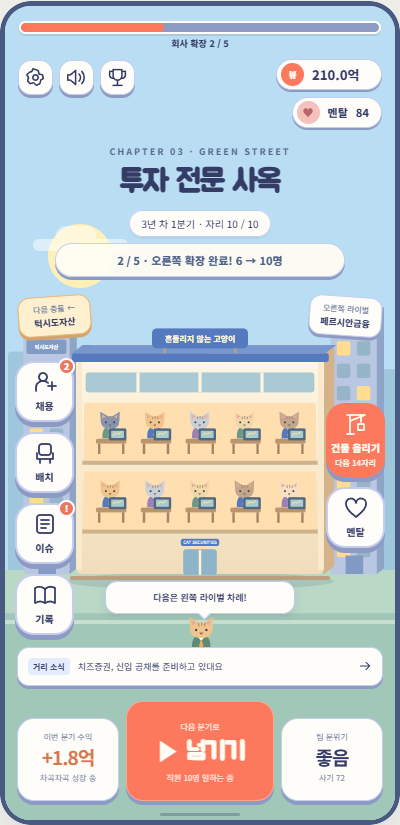
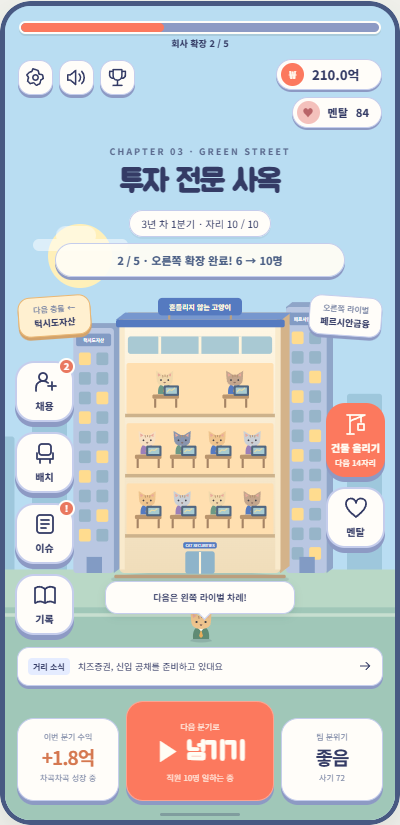
디자인: 확장 폭을 줄이고 5층 타워 비율로 조정

Changed region(s): [[0.0, 0.3636, 0.99, 0.7879], [0.0, 0.7273, 0.06, 0.7576], [0.09, 0.6061, 0.12, 0.6364]]

diff --git a/docs/mockups/2026-11-08-toy-city-five-expansions/index.html b/docs/mockups/2026-11-08-toy-city-five-expansions/index.html
@@ -77,17 +77,17 @@ const stages=[
  {name:'투자 전문 사옥',staff:10,price:210,scale:.72,cx:150,add:'동쪽 부지 · 투자팀',rival:'턱시도자산'},
  {name:'중형 증권 사옥',staff:14,price:500,scale:.60,cx:230,add:'서쪽 부지 · 3층 사옥',rival:'페르시안금융'},
  {name:'그린 스트리트 본사',staff:18,price:1200,scale:.56,cx:230,add:'동쪽 부지 · 전략팀',rival:'골든캣홀딩스'},
- {name:'고양이 금융 본사',staff:22,price:3000,scale:.50,cx:195,add:'서쪽 부지 · 4층 본사',rival:'거리 정복 완료'}
+ {name:'고양이 금융 타워',staff:22,price:3000,scale:.50,cx:195,add:'서쪽 부지 · 5층 타워',rival:'거리 정복 완료'}
 ];
 const names=['모카','구름','치즈','호두','라떼','후추','두부','밤이','나비','콩이','루나','보리','쿠키','토리','레오','솜이','밀크','버터','망고','오레오','로이','별이'];
 const colors=['#efc48d','#cbd0d6','#f1d8ab','#c4a68d','#f7e0c3','#8894ad'];
 const geometry=[
  {x:105,w:170,rows:1,scale:1},
- {x:35,w:240,rows:2,scale:.91},
- {x:35,w:310,rows:2,scale:.80},
- {x:-35,w:380,rows:3,scale:.68},
- {x:-35,w:450,rows:3,scale:.59},
- {x:-105,w:520,rows:4,scale:.51}
+ {x:75,w:200,rows:2,scale:.86},
+ {x:75,w:230,rows:3,scale:.70},
+ {x:45,w:260,rows:3,scale:.68},
+ {x:45,w:290,rows:4,scale:.56},
+ {x:15,w:320,rows:5,scale:.49}
 ].map(g=>({...g,h:g.rows*86+104}));
 const rivals=['치즈증권','삼색캐피탈','턱시도자산','페르시안금융','골든캣홀딩스','노르웨이펀드','러시안블루증권'];
 const direction=n=>n%2===1?'left':'right';
@@ -109,7 +109,7 @@ function opponents(n){const g=geometry[n];q('.opponents').innerHTML=opponent(riv
 function reset(){epoch++;autoRun++;timers.forEach(clearTimeout);timers=[];cancelAnimationFrame(frame);level=0;staff=4;seats=4;money=21.3;quarter=0;busy=false;auto=false;q('.phone').classList.remove('cinematic','celebrating');q('.company').classList.remove('company-hit');q('.dust').classList.remove('puff');q('.claimed-lot').setAttribute('opacity','0');all('.station').forEach(node=>{node.style.opacity='0';node.querySelector('.employee').classList.remove('arrived');node.querySelector('.workdesk').classList.remove('placed');});drawEnvelope(geometry[0]);placeStaff(0,4);opponents(0);q('.phase-label').textContent='왼쪽부터 · 좌우로 번갈아 확장해요';q('.speech').textContent='하나의 사옥으로 차곡차곡 성장';close();view(0);update();}
 function expand(){if(busy||level===5)return;busy=true;const next=level+1,s=stages[next],before=staff,side=direction(next),sign=side==='left'?-1:1,old=geometry[level],target=geometry[next];q('.phone').dataset.direction=side;q('.phone').classList.remove('celebrating');q('.company').classList.remove('company-hit');void q('.phone').offsetWidth;q('.phone').classList.add('cinematic');q('.company').style.setProperty('--hit',sign*22+'px');q('.company').classList.add('company-hit');q('.phase-label').textContent=`${next} / 5 · ${sideName(side)} ${stages[level].rival} 밀어내기!`;view(level,-sign*12);update();
  later(260,()=>{q(`.opponent[data-side="${side}"]`).classList.add('evicted');const dust=q('.dust');dust.setAttribute('transform',`translate(${side==='left'?old.x:old.x+old.w},0)`);dust.classList.add('puff');});
- later(420,()=>{view(next);q('.phase-label').textContent=`${sideName(side)} 부지 확보 · 건물의 기초를 넓혀요`;const lot=q('.claimed-lot');lot.setAttribute('x',side==='left'?target.x:old.x+old.w);lot.setAttribute('width','70');lot.setAttribute('opacity','1');});
+ later(420,()=>{view(next);q('.phase-label').textContent=`${sideName(side)} 부지 확보 · 건물의 기초를 넓혀요`;const lot=q('.claimed-lot');lot.setAttribute('x',side==='left'?target.x:old.x+old.w);lot.setAttribute('width',String(target.w-old.w));lot.setAttribute('opacity','1');});
  later(950,()=>{morph(old,target);placeStaff(next,before);q('.phase-label').textContent='외벽과 층을 연결하고, 지붕을 다시 얹어요';});
  later(1850,()=>{seats=s.staff;for(let i=before;i<s.staff;i++){const node=q(`.station[data-person="${i}"]`);node.style.opacity='1';node.querySelector('.workdesk').classList.add('placed');}q('.phase-label').textContent=`새 책상 +${s.staff-before} · 고양이들을 맞이해요`;update();});
  for(let person=before;person<s.staff;person++)later(2300+(person-before)*230,()=>{q(`.station[data-person="${person}"] .employee`).classList.add('arrived');staff=person+1;update();q('.phase-label').textContent=`${names[person]} 합류 · ${staff} / ${seats}명`;});
@@ -117,7 +117,7 @@ function expand(){if(busy||level===5)return;busy=true;const next=level+1,s=stage
 }
 
 const article=document.createElement('article');article.className='variant selected';
-article.innerHTML=`<div class="variant-head"><span>토이 시티 · 5단계 확장</span><small>FIVE CHAPTERS</small></div><div class="viewport"><section class="phone ${c.id}" aria-label="${c.title} 게임 시안">${renderScene()}<div class="top-progress"><i></i></div><div class="progress-text">다음 건물까지 63%</div><div class="top-tools"><button class="circle" data-action="settings" aria-label="설정">${icon('gear')}</button><button class="circle" data-action="sound" aria-label="사운드 시안 표시" aria-pressed="false">${icon('sound')}</button><button class="circle" data-action="rank" aria-label="순위">${icon('cup')}</button></div><div class="wallets"><div class="wallet"><i>₩</i><span class="money">21.3억</span></div><div class="wallet heart"><i>♥</i>멘탈 <span class="mental-value">84</span></div></div><div class="stage"><div class="chapter">CHAPTER 03 · GREEN STREET</div><h2>상가 3층</h2><small class="date">3년 차 2분기 · 자리 4 / 4</small></div><div class="rival-label"><small>다음 라이벌</small>34억</div><div class="rival-label right"><small>삼색캐피탈</small>210억</div><div class="side left"><button class="side-button" data-action="hire">${icon('hire')}채용<span class="badge">2</span></button><button class="side-button" data-action="chairs">${icon('chair')}배치</button><button class="side-button" data-action="news">${icon('news')}이슈<span class="badge">!</span></button><button class="side-button" data-action="records">${icon('book')}기록</button></div><div class="side right"><button class="side-button strong" data-action="growth">${icon('build')}건물 올리기<span class="mini">목표 34억</span></button><button class="side-button" data-action="mental">${icon('heart')}멘탈</button></div><div class="speech">작은 회사의, 아주 큰 야망</div><div class="impact">쾅!</div><div class="phase-label" role="status" aria-live="polite"></div><div class="seat-popup"></div><div class="bottom"><button class="ticker" data-action="news"><b>거리 소식</b>치즈증권, 신입 공채를 준비하고 있대요${icon('arrow')}</button><div class="bottom-cards"><div class="stat"><small>이번 분기 수익</small><strong class="gain">+1.8억</strong><em>차곡차곡 성장 중</em></div><button class="stat advance" data-action="next"><small>다음 분기로</small><strong>▶ 넘기기</strong><em>직원 4명 일하는 중</em></button><div class="stat"><small>팀 분위기</small><strong>좋음</strong><em>사기 72</em></div></div></div><div class="gesture"></div><div class="notice" role="status" hidden></div><div class="overlay" hidden><section class="dialog" role="dialog" aria-modal="true" aria-labelledby="title-${c.id}"><h3 id="title-${c.id}"></h3><div class="body"></div><button class="dismiss">닫기</button></section></div></section></div><p class="description">왼쪽 → 오른쪽 → 왼쪽 → 오른쪽 → 왼쪽. 차지한 부지 위로 하나의 외벽과 지붕이 이어지고, 고양이와 책상이 자리를 잡습니다.</p><div class="steps" aria-label="확장 진행">${[1,2,3,4,5].map(n=>`<span data-step="${n}">${n}</span>`).join('')}</div><div class="demo-controls"><button data-action="demo">한 번 확장</button><button data-action="auto" class="autoplay">5회 자동 재생</button><button data-action="stop" disabled>자동 재생 중지</button><button data-action="reset">처음으로</button></div>`;
+article.innerHTML=`<div class="variant-head"><span>토이 시티 · 5단계 확장</span><small>FIVE CHAPTERS</small></div><div class="viewport"><section class="phone ${c.id}" aria-label="${c.title} 게임 시안">${renderScene()}<div class="top-progress"><i></i></div><div class="progress-text">다음 건물까지 63%</div><div class="top-tools"><button class="circle" data-action="settings" aria-label="설정">${icon('gear')}</button><button class="circle" data-action="sound" aria-label="사운드 시안 표시" aria-pressed="false">${icon('sound')}</button><button class="circle" data-action="rank" aria-label="순위">${icon('cup')}</button></div><div class="wallets"><div class="wallet"><i>₩</i><span class="money">21.3억</span></div><div class="wallet heart"><i>♥</i>멘탈 <span class="mental-value">84</span></div></div><div class="stage"><div class="chapter">CHAPTER 03 · GREEN STREET</div><h2>상가 3층</h2><small class="date">3년 차 2분기 · 자리 4 / 4</small></div><div class="rival-label"><small>다음 라이벌</small>34억</div><div class="rival-label right"><small>삼색캐피탈</small>210억</div><div class="side left"><button class="side-button" data-action="hire">${icon('hire')}채용<span class="badge">2</span></button><button class="side-button" data-action="chairs">${icon('chair')}배치</button><button class="side-button" data-action="news">${icon('news')}이슈<span class="badge">!</span></button><button class="side-button" data-action="records">${icon('book')}기록</button></div><div class="side right"><button class="side-button strong" data-action="growth">${icon('build')}건물 올리기<span class="mini">목표 34억</span></button><button class="side-button" data-action="mental">${icon('heart')}멘탈</button></div><div class="speech">작은 회사의, 아주 큰 야망</div><div class="impact">쾅!</div><div class="phase-label" role="status" aria-live="polite"></div><div class="seat-popup"></div><div class="bottom"><button class="ticker" data-action="news"><b>거리 소식</b>치즈증권, 신입 공채를 준비하고 있대요${icon('arrow')}</button><div class="bottom-cards"><div class="stat"><small>이번 분기 수익</small><strong class="gain">+1.8억</strong><em>차곡차곡 성장 중</em></div><button class="stat advance" data-action="next"><small>다음 분기로</small><strong>▶ 넘기기</strong><em>직원 4명 일하는 중</em></button><div class="stat"><small>팀 분위기</small><strong>좋음</strong><em>사기 72</em></div></div></div><div class="gesture"></div><div class="notice" role="status" hidden></div><div class="overlay" hidden><section class="dialog" role="dialog" aria-modal="true" aria-labelledby="title-${c.id}"><h3 id="title-${c.id}"></h3><div class="body"></div><button class="dismiss">닫기</button></section></div></section></div><p class="description">왼쪽 → 오른쪽 → 왼쪽 → 오른쪽 → 왼쪽. 좌우 확장 폭을 줄이고 높이를 키운 타워형 사옥입니다. 다섯 개 사무층에 고양이 22명이 나뉘어 일합니다.</p><div class="steps" aria-label="확장 진행">${[1,2,3,4,5].map(n=>`<span data-step="${n}">${n}</span>`).join('')}</div><div class="demo-controls"><button data-action="demo">한 번 확장</button><button data-action="auto" class="autoplay">5회 자동 재생</button><button data-action="stop" disabled>자동 재생 중지</button><button data-action="reset">처음으로</button></div>`;
 document.querySelector('#gallery').append(article);
 const q=s=>article.querySelector(s),all=s=>[...article.querySelectorAll(s)];
 let autoRun=0;let level=0,staff=4,seats=4,busy=false,auto=false,timers=[],epoch=0,money=21.3,quarter=0,mental=84,lastFocus;
